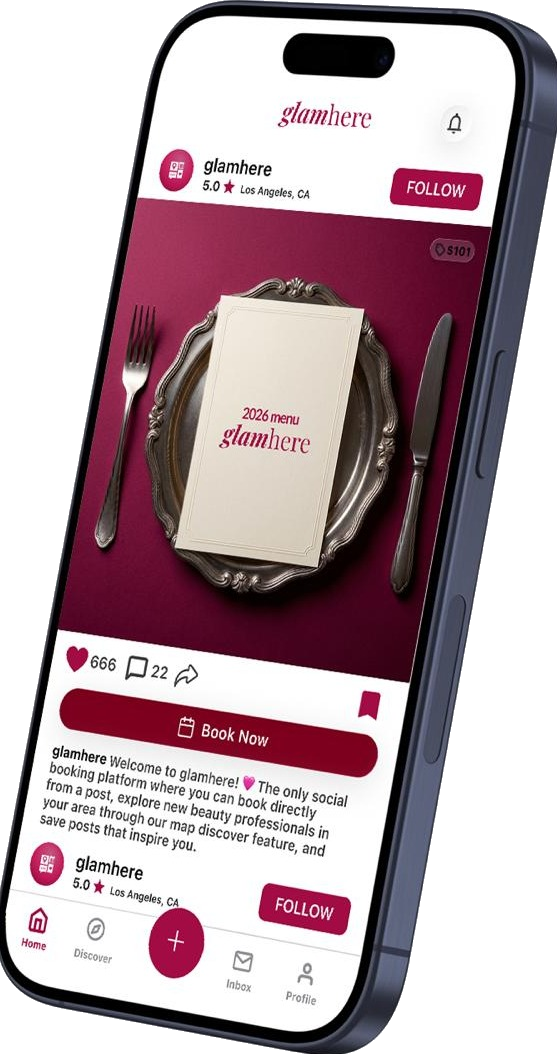
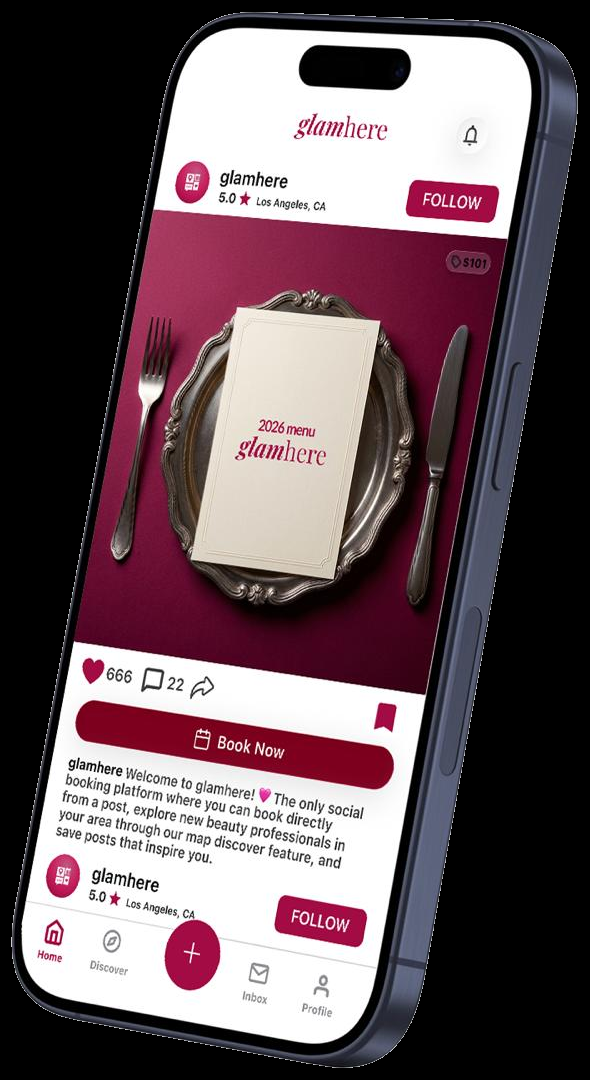
feat: update Hero component image dimensions for better display

diff --git a/src/components/Hero.tsx b/src/components/Hero.tsx
@@ -126,8 +126,8 @@ export default function Hero({ content, settings }: HeroProps = {}) {
               <Image
                 src="/screens/hero-feed.png"
                 alt="glamhere app feed"
-                width={557}
-                height={1054}
+                width={590}
+                height={1080}
                 priority
                 className="h-auto w-full"
               />
